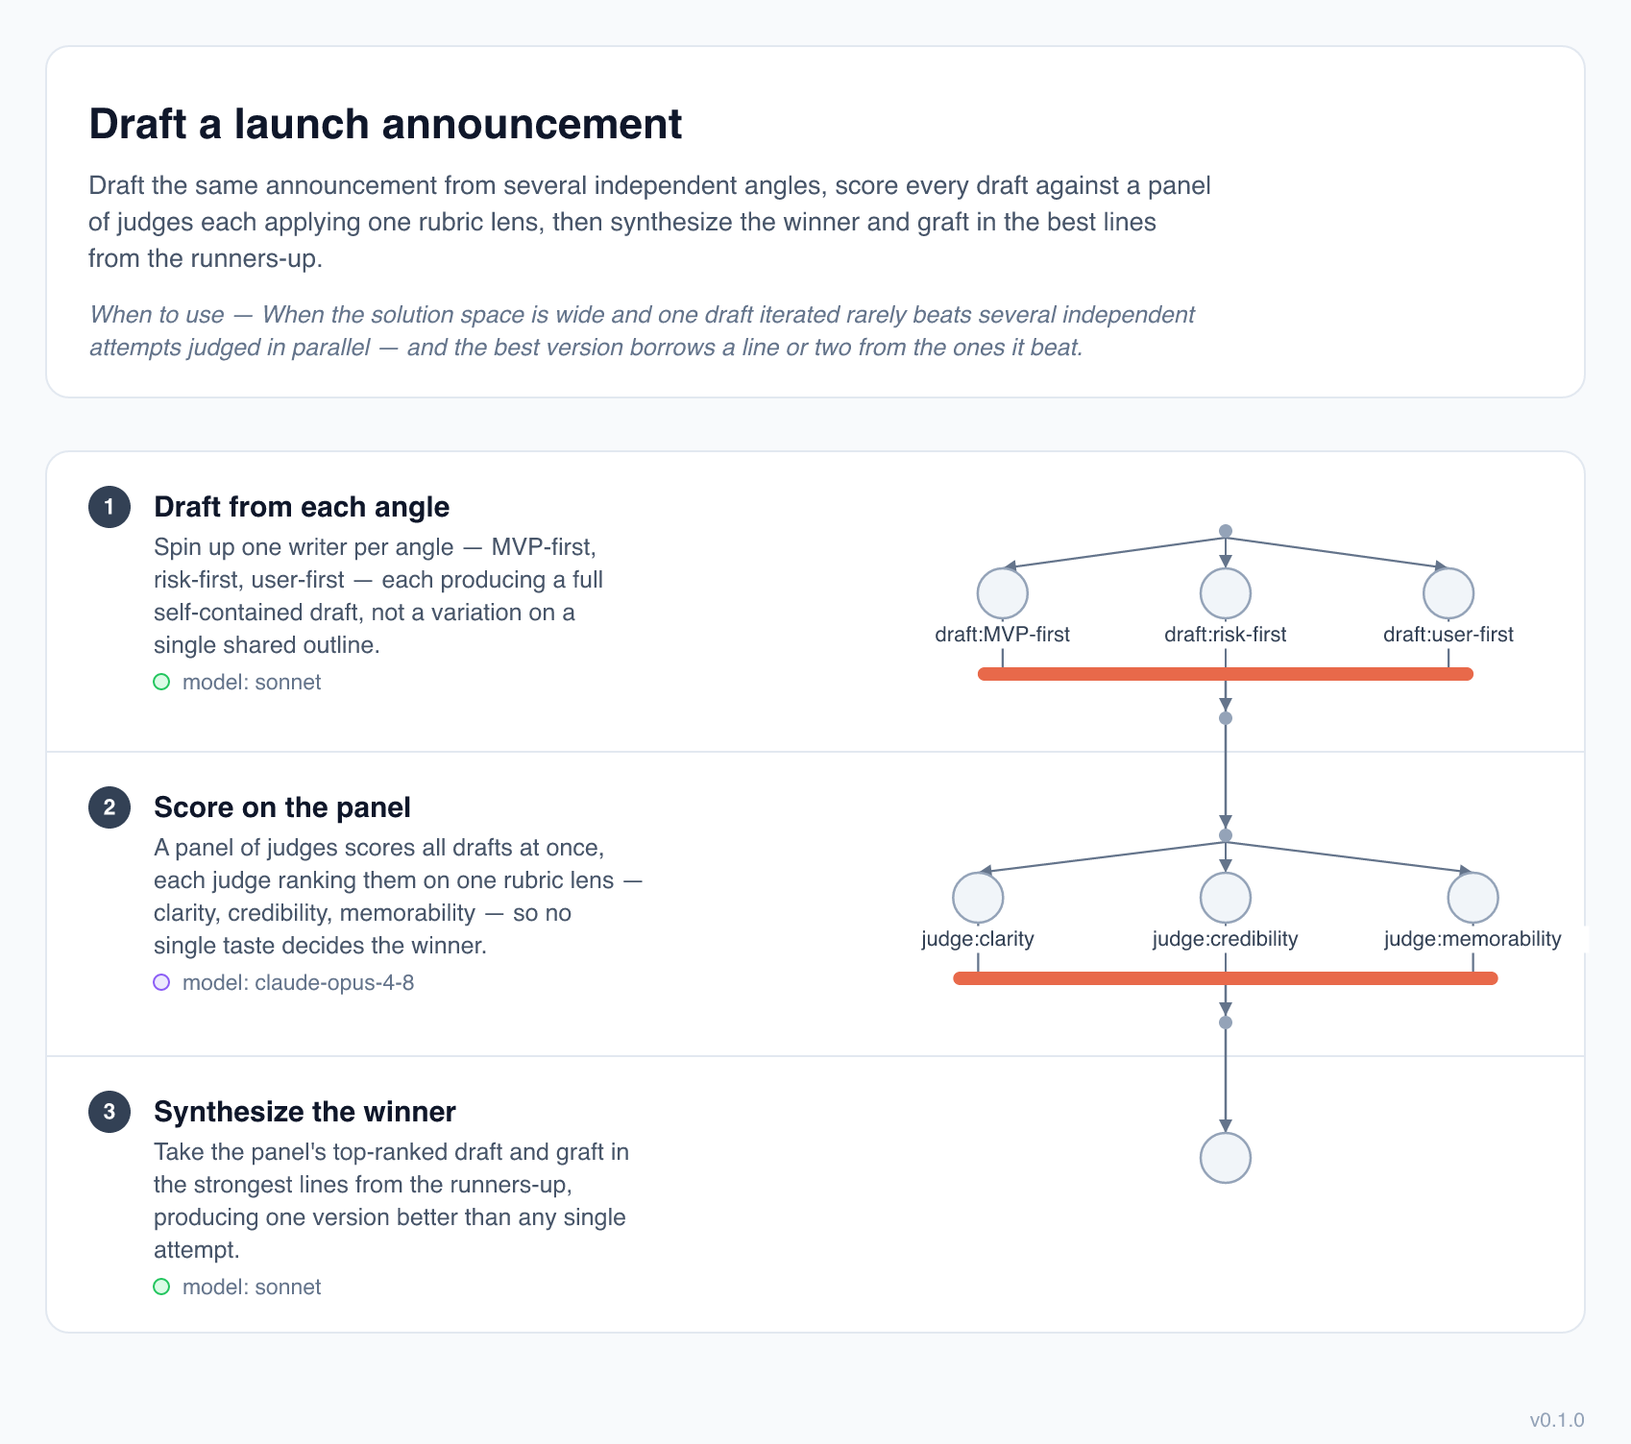
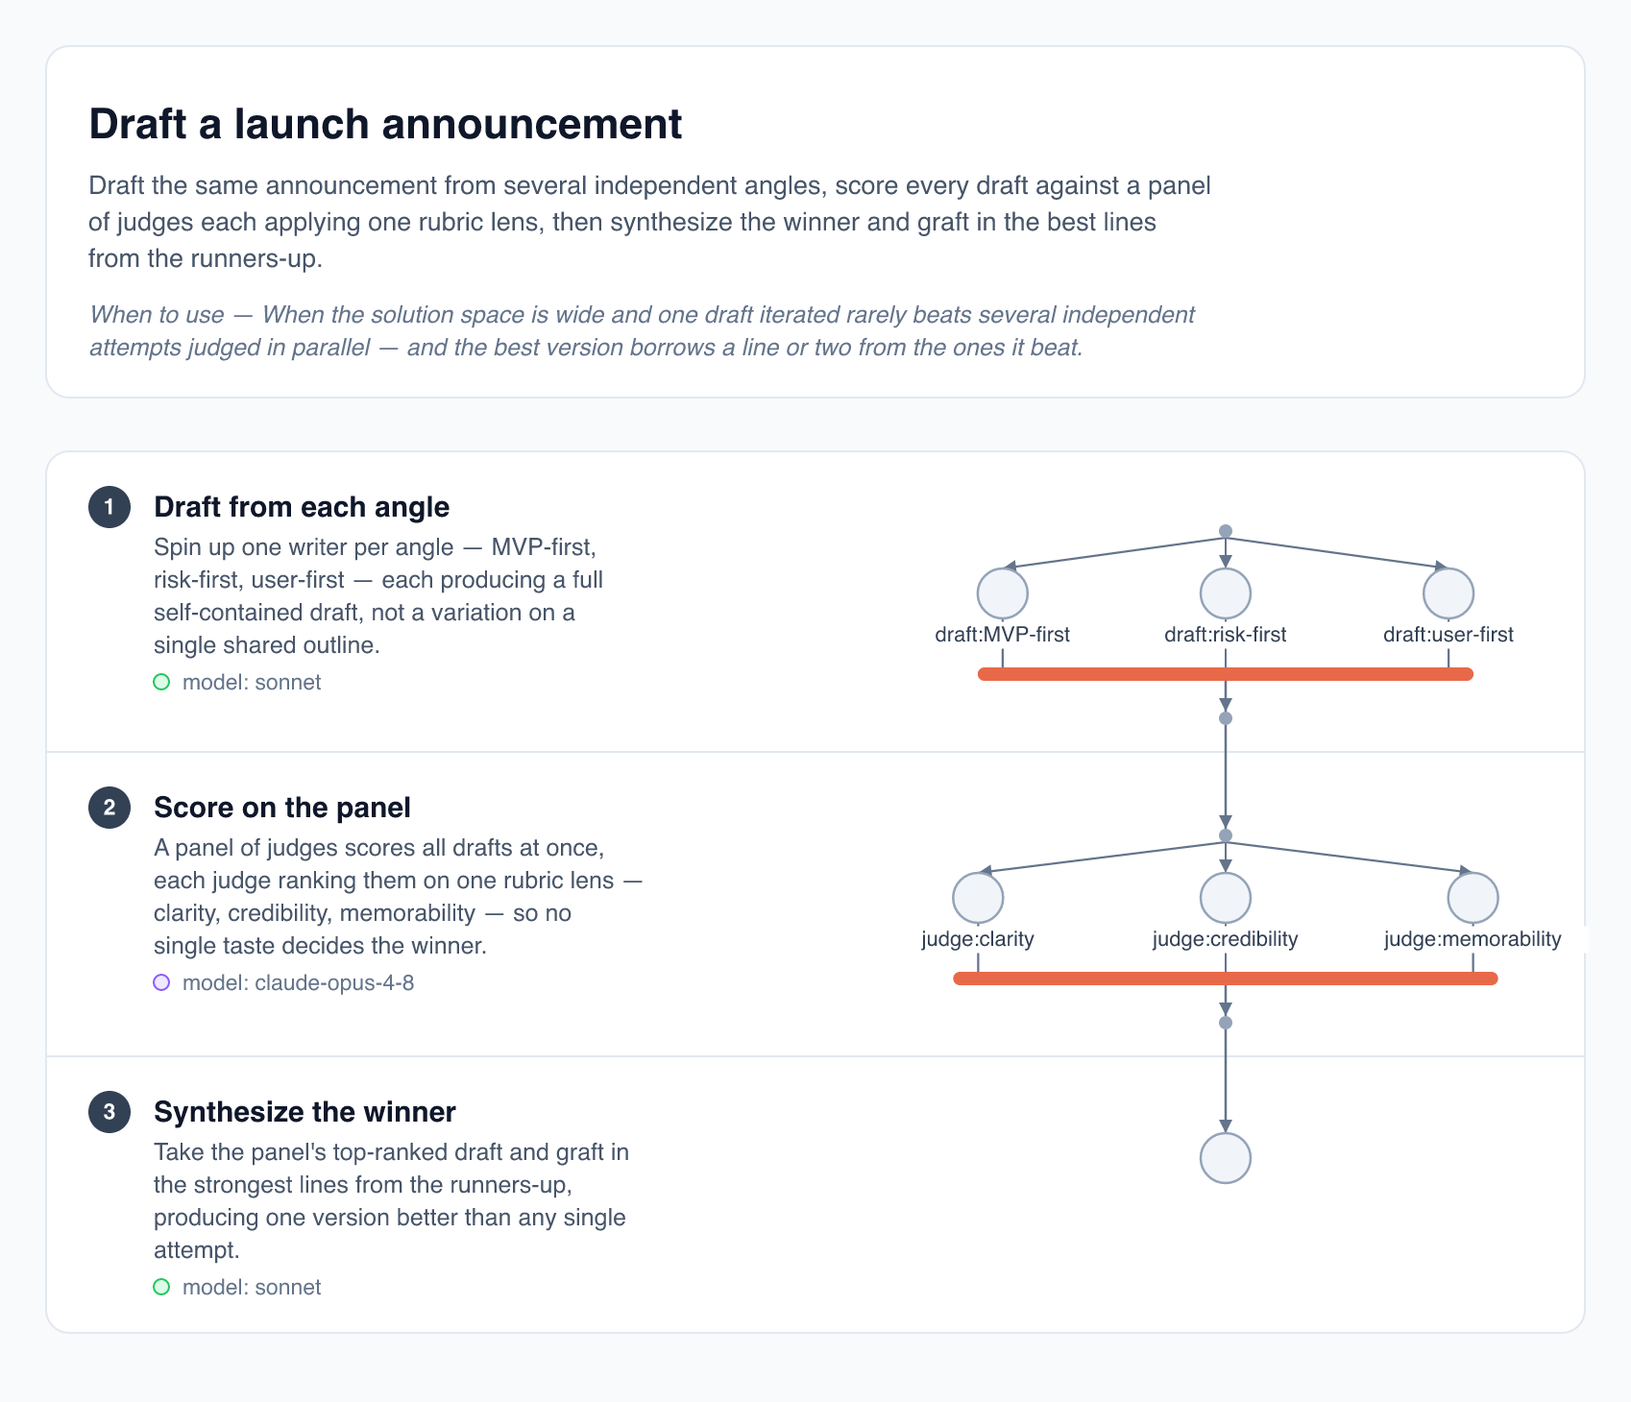
refactor: drop the tool-version footer from rendered diagrams
Renders no longer carry the bottom-right `v<version>` provenance stamp. A
diagram is now a pure function of its `.js` input — nothing about the tool
(version, timestamp) is drawn onto it — so the same workflow yields
byte-identical output across releases and a version bump never churns the
committed corpus. The version stays internal: `--version` / package.json.

- render-svg / render-topology: remove the Provenance type, renderFooter,
  and the optional `prov` seam (the renderers were already pure with no
  provenance passed).
- cli: stop constructing/passing PROVENANCE; keep -v/--version.
- tests: the "stamps provenance" cases become "never stamps" guards.
- README: document the deliberate no-stamp choice.
- regen-examples: render the DEFAULT (workflow) view, not `--view topology`
  — the script had drifted from the committed corpus since PR #1, so running
  it silently flipped every render to graph-only. It now reproduces the corpus.
- examples: regenerate (footer removed; workflow view preserved).

diff --git a/ts/__tests__/cli.smoke.test.ts b/ts/__tests__/cli.smoke.test.ts
@@ -5,7 +5,7 @@ import { dirname, join } from "node:path";
 import { fileURLToPath } from "node:url";
 import { afterAll, describe, expect, it } from "vitest";
 import { extractMeta } from "../extract-meta.js";
-import { type Provenance, renderSvg } from "../render-svg.js";
+import { renderSvg } from "../render-svg.js";
 
 const here = dirname(fileURLToPath(import.meta.url));
 const root = join(here, "..", "..");
@@ -14,13 +14,6 @@ const fixture = join(here, "fixtures", "full.js");
 const exoticFixture = join(here, "fixtures", "exotic-body.js");
 const summarizeExample = join(root, "examples", "level-1", "summarize-codebase.js");
 const pkg = JSON.parse(readFileSync(join(root, "package.json"), "utf8"));
-
-// The provenance the CLI stamps into every render — reconstructed here so the
-// byte-equality assertions below compare against the SAME footer the CLI emits,
-// rather than hardcoding the strings. (`__CWV_VERSION__` is `pkg.version`.)
-const prov: Provenance = {
-  toolVersion: pkg.version,
-};
 
 // Scratch dir for written artifacts; `pretest` builds dist/cli.js first.
 const workDir = mkdtempSync(join(tmpdir(), "cwv-smoke-"));
@@ -160,15 +153,13 @@ describe("cli smoke — views", () => {
     expect(res.stdout).not.toContain('class="swimlane"');
   });
 
-  it("stamps the provenance footer into the rendered diagram", () => {
+  it("never paints the tool version onto the rendered diagram", () => {
     const res = runCli([summarizeExample]);
     expect(res.status).toBe(0);
-    expect(res.stdout).toContain('class="provenance"');
-    // The tool version — so an image that has travelled away from its `.js`
-    // source still says what produced it. Grammar level is tracked by the example
-    // corpus under examples/level-N/, not stamped into the diagram.
-    expect(res.stdout).toContain(`v${pkg.version}`);
-    expect(res.stdout).not.toContain("grammar level");
+    // The version is knowable via `--version`, but a render is a pure function of
+    // its `.js` input — no tool-version footer, no "vX.Y.Z" stamped into the image.
+    expect(res.stdout).not.toContain('class="provenance"');
+    expect(res.stdout).not.toContain(`v${pkg.version}`);
   });
 
   it("--view phases renders the byte-stable v1 page", () => {
@@ -178,7 +169,7 @@ describe("cli smoke — views", () => {
     // Byte-for-byte the v1 renderer's output (itself pinned by its snapshot
     // suite) — the permanent regression surface for the old view, now including
     // the provenance footer the CLI stamps.
-    expect(res.stdout).toBe(renderSvg(extractMeta(summarizeExample), prov));
+    expect(res.stdout).toBe(renderSvg(extractMeta(summarizeExample)));
   });
 
   it("exits non-zero with a clear message for a bad --view", () => {
@@ -195,7 +186,7 @@ describe("cli smoke — views", () => {
     expect(res.stderr).toBe("");
     expect(res.stdout).not.toContain("agent-node");
     expect(res.stdout).toContain('class="phase-card"');
-    expect(res.stdout).toBe(renderSvg(extractMeta(exoticFixture), prov));
+    expect(res.stdout).toBe(renderSvg(extractMeta(exoticFixture)));
   });
 
   it("--view topology falls back to the v1-equivalent page for an exotic body, exit 0", () => {
@@ -204,7 +195,7 @@ describe("cli smoke — views", () => {
     expect(res.stderr).toBe("");
     expect(res.stdout).not.toContain("agent-node");
     expect(res.stdout).toContain('class="phase-card"');
-    expect(res.stdout).toBe(renderSvg(extractMeta(exoticFixture), prov));
+    expect(res.stdout).toBe(renderSvg(extractMeta(exoticFixture)));
   });
 
   it("warns about an unrecognized awaited primitive yet still renders (exit 0), proving the warning is independent of the hasOrchestration fallback", () => {
@@ -216,7 +207,7 @@ describe("cli smoke — views", () => {
     // ...even though no orchestration was recovered, so the workflow view fell
     // back to the byte-identical v1 phases page (the warning ran before that).
     expect(res.stdout).not.toContain("agent-node");
-    expect(res.stdout).toBe(renderSvg(extractMeta(unknownFixture), prov));
+    expect(res.stdout).toBe(renderSvg(extractMeta(unknownFixture)));
   });
 
   it("rasterizes the workflow view to a real PNG", () => {

diff --git a/ts/render-svg.ts b/ts/render-svg.ts
@@ -13,39 +13,6 @@ import {
 } from "./svg-primitives.js";
 
 /**
- * Provenance of a rendered diagram: the tool version, stamped into the image so a
- * PNG/SVG that has travelled away from its source `.js` still says what produced
- * it. Injected by the CLI (it owns the build-time tool version); the renderers
- * stay pure and only draw it when given. Grammar level is deliberately *not* here
- * — it is a property of the versioned example corpus (`examples/level-N/`), not of
- * every render, so the footer needn't restamp on each level bump.
- */
-export interface Provenance {
-  /** The tool version (`__CWV_VERSION__`). */
-  toolVersion: string;
-}
-
-const FOOTER_FILL = "#94a3b8"; // muted slate — quiet, secondary to the diagram
-const FOOTER_FONT = 10.5;
-const FOOTER_BAND = 22; // height appended below the content for the caption
-
-/**
- * A quiet, bottom-right provenance caption — the tool version that rendered the
- * diagram. Drawn on the page background below the content (`topY` is the band's
- * top), right-aligned `MARGIN` from the page's right edge so it lines up with the
- * card column. Because the PNG is rasterized from this SVG, the caption rides
- * along into the PNG too. Returns its height so the caller extends the page.
- */
-export function renderFooter(prov: Provenance, pageW: number, topY: number): Block {
-  const label = `v${prov.toolVersion}`;
-  const body =
-    `<g class="provenance">` +
-    text(pageW - MARGIN, topY + 13, label, { size: FOOTER_FONT, fill: FOOTER_FILL, anchor: "end" }) +
-    `</g>`;
-  return { body, height: FOOTER_BAND };
-}
-
-/**
  * Render a workflow `Meta` as a standalone SVG string: a header card
  * (name + description + optional "when to use"), then a vertical stack of
  * phase cards — each an index chip, a single-line title, wrapped detail text,
@@ -53,11 +20,11 @@ export function renderFooter(prov: Provenance, pageW: number, topY: number): Blo
  * with no external layout engine (phases are already ordered, so the flow is
  * a deliberate vertical stack — dependency layering is out of scope for v1).
  *
- * When `prov` is given, a quiet provenance footer is appended below the content;
- * omitting it leaves the output byte-identical to v1 (the snapshot gate relies on
- * this — only the CLI passes provenance).
+ * The output is a pure function of `meta` — nothing about the tool itself
+ * (version, timestamp) is drawn onto the diagram, so the same input always
+ * yields byte-identical SVG across tool versions.
  */
-export function renderSvg(meta: Meta, prov?: Provenance): string {
+export function renderSvg(meta: Meta): string {
   const blocks: Block[] = [renderHeader(meta, CARD_X, CARD_W)];
   meta.phases.forEach((phase, i) =>
     blocks.push(renderPhaseCard(phase, i + 1, CARD_X, CARD_W)),
@@ -69,14 +36,7 @@ export function renderSvg(meta: Meta, prov?: Provenance): string {
     placed.push(`<g transform="translate(0 ${y})">${block.body}</g>`);
     y += block.height + GAP;
   }
-  let height = y - GAP + MARGIN;
-
-  let footer = "";
-  if (prov) {
-    const f = renderFooter(prov, W, height);
-    footer = f.body;
-    height += f.height;
-  }
+  const height = y - GAP + MARGIN;
 
   return (
     `<svg xmlns="http://www.w3.org/2000/svg" width="${W}" height="${height}" ` +
@@ -84,7 +44,6 @@ export function renderSvg(meta: Meta, prov?: Provenance): string {
     `font-family="-apple-system, BlinkMacSystemFont, 'Segoe UI', Roboto, Helvetica, Arial, sans-serif">\n` +
     `<rect width="${W}" height="${height}" fill="#f8fafc"/>\n` +
     placed.join("\n") +
-    (footer ? `\n${footer}` : "") +
     `\n</svg>\n`
   );
 }

diff --git a/ts/render-topology.ts b/ts/render-topology.ts
@@ -1,6 +1,6 @@
 import type { Meta } from "./model.js";
 import type { ControlArc, GEdge, GLane, GLoop, GNode, LaneMember, Layout } from "./topo-geometry.js";
-import { type Provenance, renderFooter, renderHeader } from "./render-svg.js";
+import { renderHeader } from "./render-svg.js";
 import { closeLaneGaps, reserveLaneHeights } from "./place-topology.js";
 import {
   type Block,
@@ -49,7 +49,7 @@ import {
  * paint and typography live in the named constants below. Determinism: output
  * is a pure function of the layout; arrays are drawn in canonical order.
  */
-export function renderTopology(layout: Layout, meta: Meta, prov?: Provenance): string {
+export function renderTopology(layout: Layout, meta: Meta): string {
   const gw = layout.width; // the graph's own frame width (== W)
 
   // Build each lane's left label cell, then inflate its band to fit so the
@@ -114,14 +114,7 @@ export function renderTopology(layout: Layout, meta: Meta, prov?: Provenance): s
     `</g>`;
 
   const width = pageW;
-  let height = round(yOffset + layout.height + MARGIN);
-
-  let footer = "";
-  if (prov) {
-    const f = renderFooter(prov, pageW, height);
-    footer = f.body;
-    height = round(height + f.height);
-  }
+  const height = round(yOffset + layout.height + MARGIN);
 
   return (
     `<svg xmlns="http://www.w3.org/2000/svg" width="${width}" height="${height}" ` +
@@ -130,7 +123,6 @@ export function renderTopology(layout: Layout, meta: Meta, prov?: Provenance): s
     `<rect width="${width}" height="${height}" fill="${PAGE_BG}"/>\n` +
     `<g transform="translate(0 ${round(MARGIN)})">${header.body}</g>\n` +
     content +
-    (footer ? `\n${footer}` : "") +
     `\n</svg>\n`
   );
 }
@@ -140,7 +132,7 @@ export function renderTopology(layout: Layout, meta: Meta, prov?: Provenance): s
  * header or phase table. Unlike the full workflow view, derived agent labels are
  * shown here because there is no phase row beside the node to name it.
  */
-export function renderTopologyGraph(layout: Layout, prov?: Provenance): string {
+export function renderTopologyGraph(layout: Layout): string {
   const gw = layout.width;
   const byId = new Map(layout.nodes.map((n) => [n.id, n]));
   const { minX, maxX } = graphContentBounds(layout, byId, gw, { showDerivedLabels: true });
@@ -159,14 +151,7 @@ export function renderTopologyGraph(layout: Layout, prov?: Provenance): string {
     `${edges}${nodes}${arcs}${loops}</g>`;
 
   const width = pageW;
-  let height = round(graphY + graphH + MARGIN);
-
-  let footer = "";
-  if (prov) {
-    const f = renderFooter(prov, pageW, height);
-    footer = f.body;
-    height = round(height + f.height);
-  }
+  const height = round(graphY + graphH + MARGIN);
 
   return (
     `<svg xmlns="http://www.w3.org/2000/svg" width="${width}" height="${height}" ` +
@@ -174,7 +159,6 @@ export function renderTopologyGraph(layout: Layout, prov?: Provenance): string {
     `font-family="-apple-system, BlinkMacSystemFont, 'Segoe UI', Roboto, Helvetica, Arial, sans-serif">\n` +
     `<rect width="${width}" height="${height}" fill="${PAGE_BG}"/>\n` +
     content +
-    (footer ? `\n${footer}` : "") +
     `\n</svg>\n`
   );
 }

diff --git a/ts/cli.ts b/ts/cli.ts
@@ -17,20 +17,12 @@ import type { Meta } from "./model.js";
 import { openBrowser } from "./output.js";
 import { placeTopology } from "./place-topology.js";
 import { DEFAULT_PNG_SCALE, svgToPng } from "./render-png.js";
-import { type Provenance, renderSvg } from "./render-svg.js";
+import { renderSvg } from "./render-svg.js";
 import { renderTopology, renderTopologyGraph } from "./render-topology.js";
 
+// The build-time tool version, surfaced only via `--version` (below) — never
+// drawn onto a diagram, so renders stay a pure function of their input.
 declare const __CWV_VERSION__: string;
-
-/**
- * The provenance stamped into every rendered diagram: the tool version. A
- * build-time constant, so the footer is deterministic and identical across views.
- * Grammar level is not stamped here — it is tracked by the example corpus under
- * `examples/level-N/`, not pinned into each diagram.
- */
-const PROVENANCE: Provenance = {
-  toolVersion: __CWV_VERSION__,
-};
 
 const FORMATS = ["svg", "png", "html", "json"] as const;
 export type Format = (typeof FORMATS)[number];
@@ -115,17 +107,17 @@ function defaultOutPath(workflow: string, format: Format, ephemeral: boolean): s
 function renderAnalyzedView(meta: Meta, program: acorn.Node, src: string, view: "workflow" | "topology"): string {
   try {
     const topology = analyzeBody(program, src, meta.phases.map((p) => p.title));
-    if (!topology.hasOrchestration) return renderSvg(meta, PROVENANCE);
+    if (!topology.hasOrchestration) return renderSvg(meta);
     const layout = placeTopology(topology, meta);
     return view === "workflow"
-      ? renderTopology(layout, meta, PROVENANCE)
-      : renderTopologyGraph(layout, PROVENANCE);
+      ? renderTopology(layout, meta)
+      : renderTopologyGraph(layout);
   } catch (e) {
     const reason = (e instanceof Error ? e.message : String(e)).replace(/\s+/g, " ").trim();
     process.stderr.write(
       `claude-workflows-viz: warning: body analysis failed (${reason}); rendering meta phases only\n`,
     );
-    return renderSvg(meta, PROVENANCE);
+    return renderSvg(meta);
   }
 }
 
@@ -169,7 +161,7 @@ function run(workflow: string, opts: CliOpts): void {
     } else {
       let svg: string;
       if (view === "phases") {
-        svg = renderSvg(meta, PROVENANCE); // meta-only view: the body and its grammar go untouched
+        svg = renderSvg(meta); // meta-only view: the body and its grammar go untouched
       } else {
         // Warn BEFORE renderAnalyzedView so a file whose newer construct recovers
         // no orchestration (hitting its hasOrchestration early return) still surfaces it.

diff --git a/ts/__tests__/render-topology.test.ts b/ts/__tests__/render-topology.test.ts
@@ -1,6 +1,5 @@
 import { describe, expect, it } from "vitest";
 import { placeTopology } from "../place-topology.js";
-import type { Provenance } from "../render-svg.js";
 import { renderTopology, renderTopologyGraph } from "../render-topology.js";
 import type { Meta } from "../model.js";
 import type {
@@ -252,17 +251,11 @@ describe("renderTopology", () => {
     expect(renderGraph(t, m)).toBe(renderGraph(t, m));
   });
 
-  it("stamps provenance in the graph-only topology view only when requested", () => {
-    const prov: Provenance = { toolVersion: "9.9.9" };
+  it("never stamps a tool-version footer in either topology view", () => {
     const t = topo([agent("go", "Solo")], [band("Solo")]);
     const m = meta([{ title: "Solo", model: "sonnet" }]);
-    const bare = renderTopologyGraph(placeTopology(t, m));
-    const stamped = renderTopologyGraph(placeTopology(t, m), prov);
-    expect(bare).not.toContain('class="provenance"');
-    expect(stamped).toContain('class="provenance"');
-    expect(stamped).toContain("v9.9.9");
-    const h = (s: string) => Number(/height="([\d.]+)"/.exec(s)?.[1]);
-    expect(h(stamped)).toBeGreaterThan(h(bare));
+    expect(renderTopologyGraph(placeTopology(t, m))).not.toContain('class="provenance"');
+    expect(renderTopology(placeTopology(t, m), m)).not.toContain('class="provenance"');
   });
 
   it("escapes <, >, &, and \" in every label, leaking no raw payload", () => {
@@ -298,18 +291,5 @@ describe("renderTopology", () => {
 
   it("matches the tournament snapshot", () => {
     expect(tournament()).toMatchSnapshot();
-  });
-
-  it("stamps a provenance footer only when given provenance, growing the page", () => {
-    const prov: Provenance = { toolVersion: "9.9.9" };
-    const t = topo([agent("go", "Solo")], [band("Solo")]);
-    const m = meta([{ title: "Solo", model: "sonnet" }]);
-    const bare = renderTopology(placeTopology(t, m), m);
-    const stamped = renderTopology(placeTopology(t, m), m, prov);
-    expect(bare).not.toContain('class="provenance"');
-    expect(stamped).toContain('class="provenance"');
-    expect(stamped).toContain("v9.9.9");
-    const h = (s: string) => Number(/height="(\d+)"/.exec(s)?.[1]);
-    expect(h(stamped)).toBeGreaterThan(h(bare));
   });
 });

diff --git a/ts/__tests__/render-svg.test.ts b/ts/__tests__/render-svg.test.ts
@@ -1,5 +1,5 @@
 import { describe, expect, it } from "vitest";
-import { type Provenance, renderSvg } from "../render-svg.js";
+import { renderSvg } from "../render-svg.js";
 import type { Meta } from "../model.js";
 
 const meta = (over: Partial<Meta> = {}): Meta => ({
@@ -107,21 +107,9 @@ describe("renderSvg", () => {
     expect(svg).toMatchSnapshot();
   });
 
-  const prov: Provenance = { toolVersion: "9.9.9" };
-
-  it("omits the provenance footer without provenance (v1 byte-stability)", () => {
+  it("never stamps a tool-version footer (renders are a pure function of meta)", () => {
     expect(renderSvg(meta({ phases: [{ title: "A", model: "opus" }] }))).not.toContain(
       'class="provenance"',
     );
-  });
-
-  it("stamps a right-aligned provenance footer when given provenance, growing the page", () => {
-    const m = meta({ phases: [{ title: "A", model: "opus" }] });
-    const stamped = renderSvg(m, prov);
-    expect(stamped).toContain('class="provenance"');
-    expect(stamped).toContain("v9.9.9");
-    expect(stamped).toContain('text-anchor="end"'); // bottom-right
-    const h = (s: string) => Number(/height="(\d+)"/.exec(s)?.[1]);
-    expect(h(stamped)).toBeGreaterThan(h(renderSvg(m)));
   });
 });

diff --git a/README.md b/README.md
@@ -124,7 +124,7 @@ The same reading rides along in `--format json` as `topology.requiredLevel` (the
 
 Grammar level is a property of the **example corpus**, not of every render. The bundled workflows live under a per-level directory — `examples/level-1/` today — and each also declares its level in-file (a `Grammar level: 1` header line); `ts/__tests__/examples.grammar.test.ts` enforces that the directory, the in-file stamp, and what the file actually uses all agree, so a sample can't silently drift past the recognizer's level. When the next level is minted (see the changelog), its specimens land in `examples/level-2/`, and the corpus becomes a versioned record of how the grammar — and its renders — change over time.
 
-The rendered diagram itself carries a quieter provenance **in the image**: a bottom-right footer — just `v<version>` — stamped into the SVG (and so into the PNG rasterized from it), so a diagram that has travelled away from its source `.js` still says what produced it. It deliberately omits the grammar level: that belongs to the corpus, and a footer needn't restamp on every level bump.
+The rendered diagram carries **no tool-version stamp**. A render is a pure function of its `.js` input — nothing about the tool itself (version, timestamp) is drawn onto the image — so the same workflow yields byte-identical output across releases, and a version bump never churns the committed corpus. The tool version stays internal: read it with `claude-workflows-viz --version` (it's the `package.json` version, baked into the bundle at build time).
 
 ## From source
 
